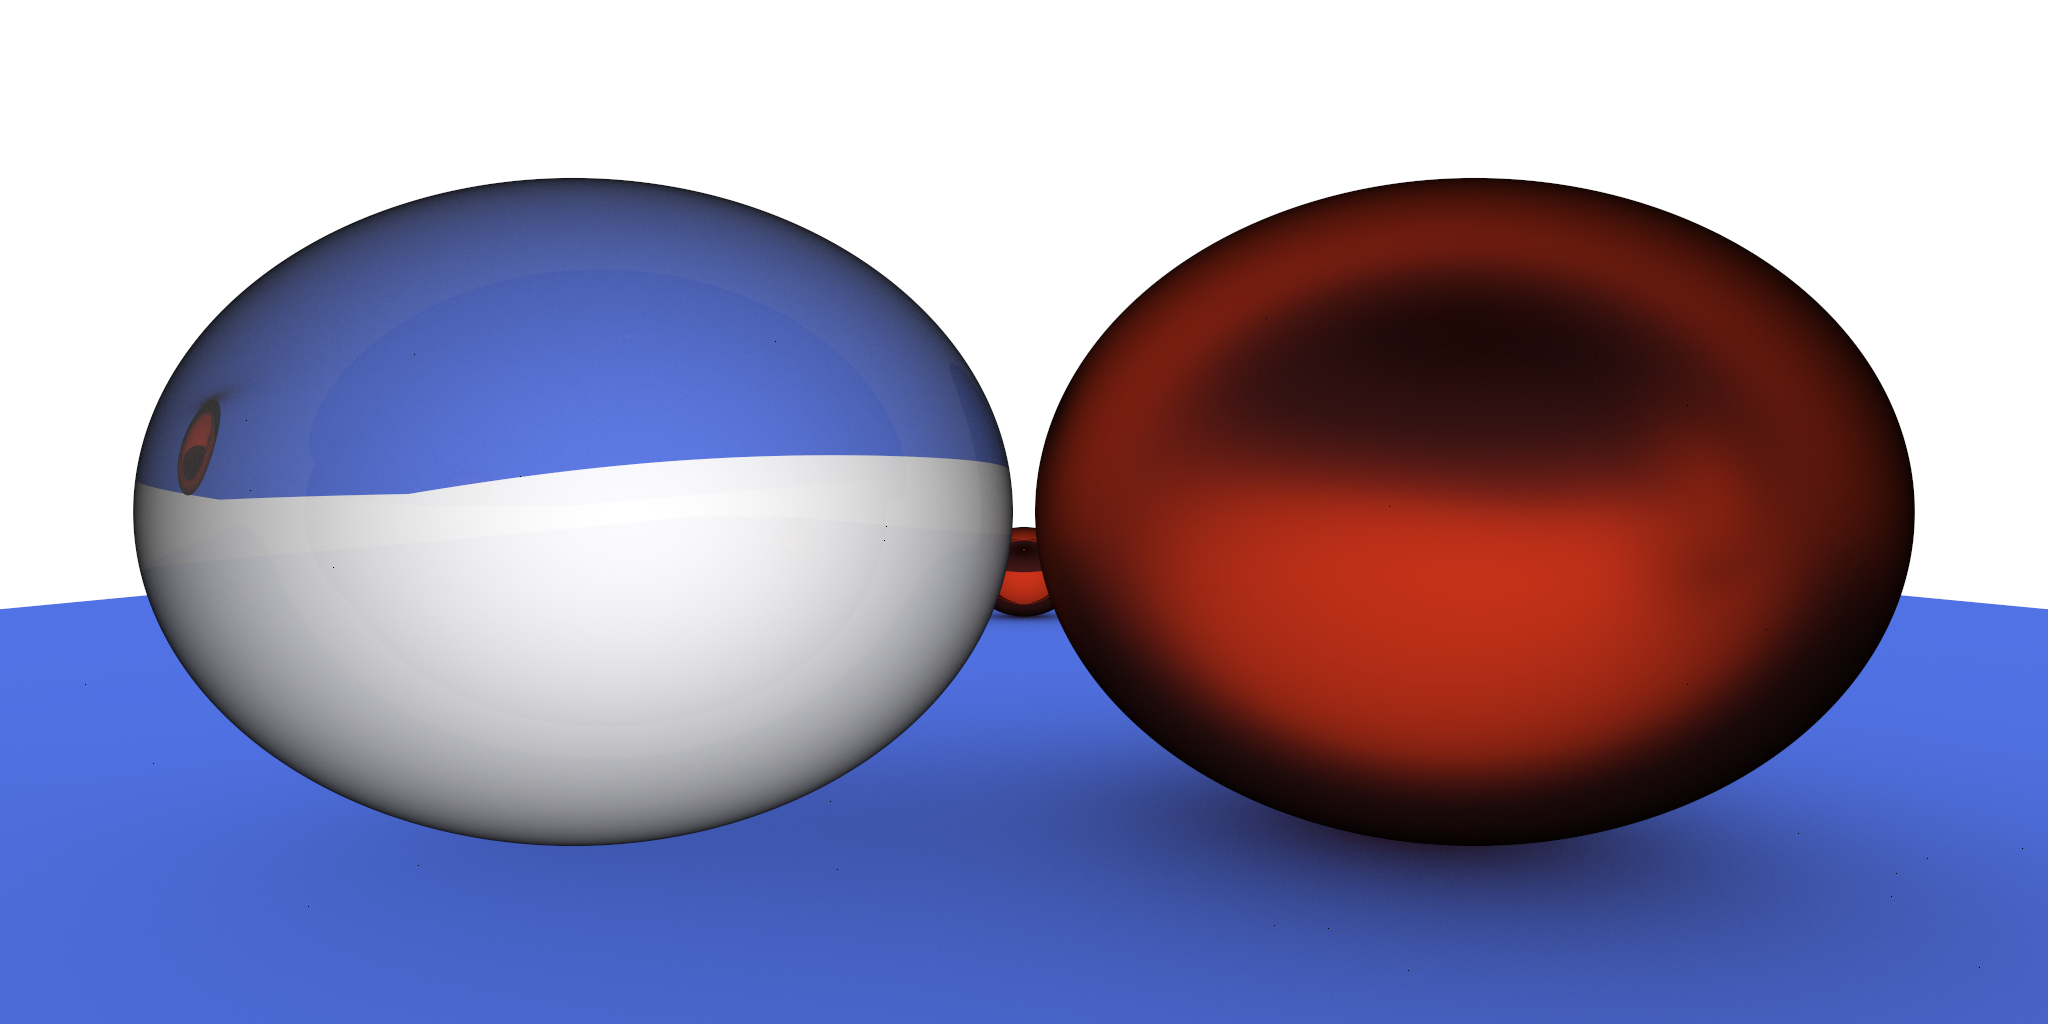
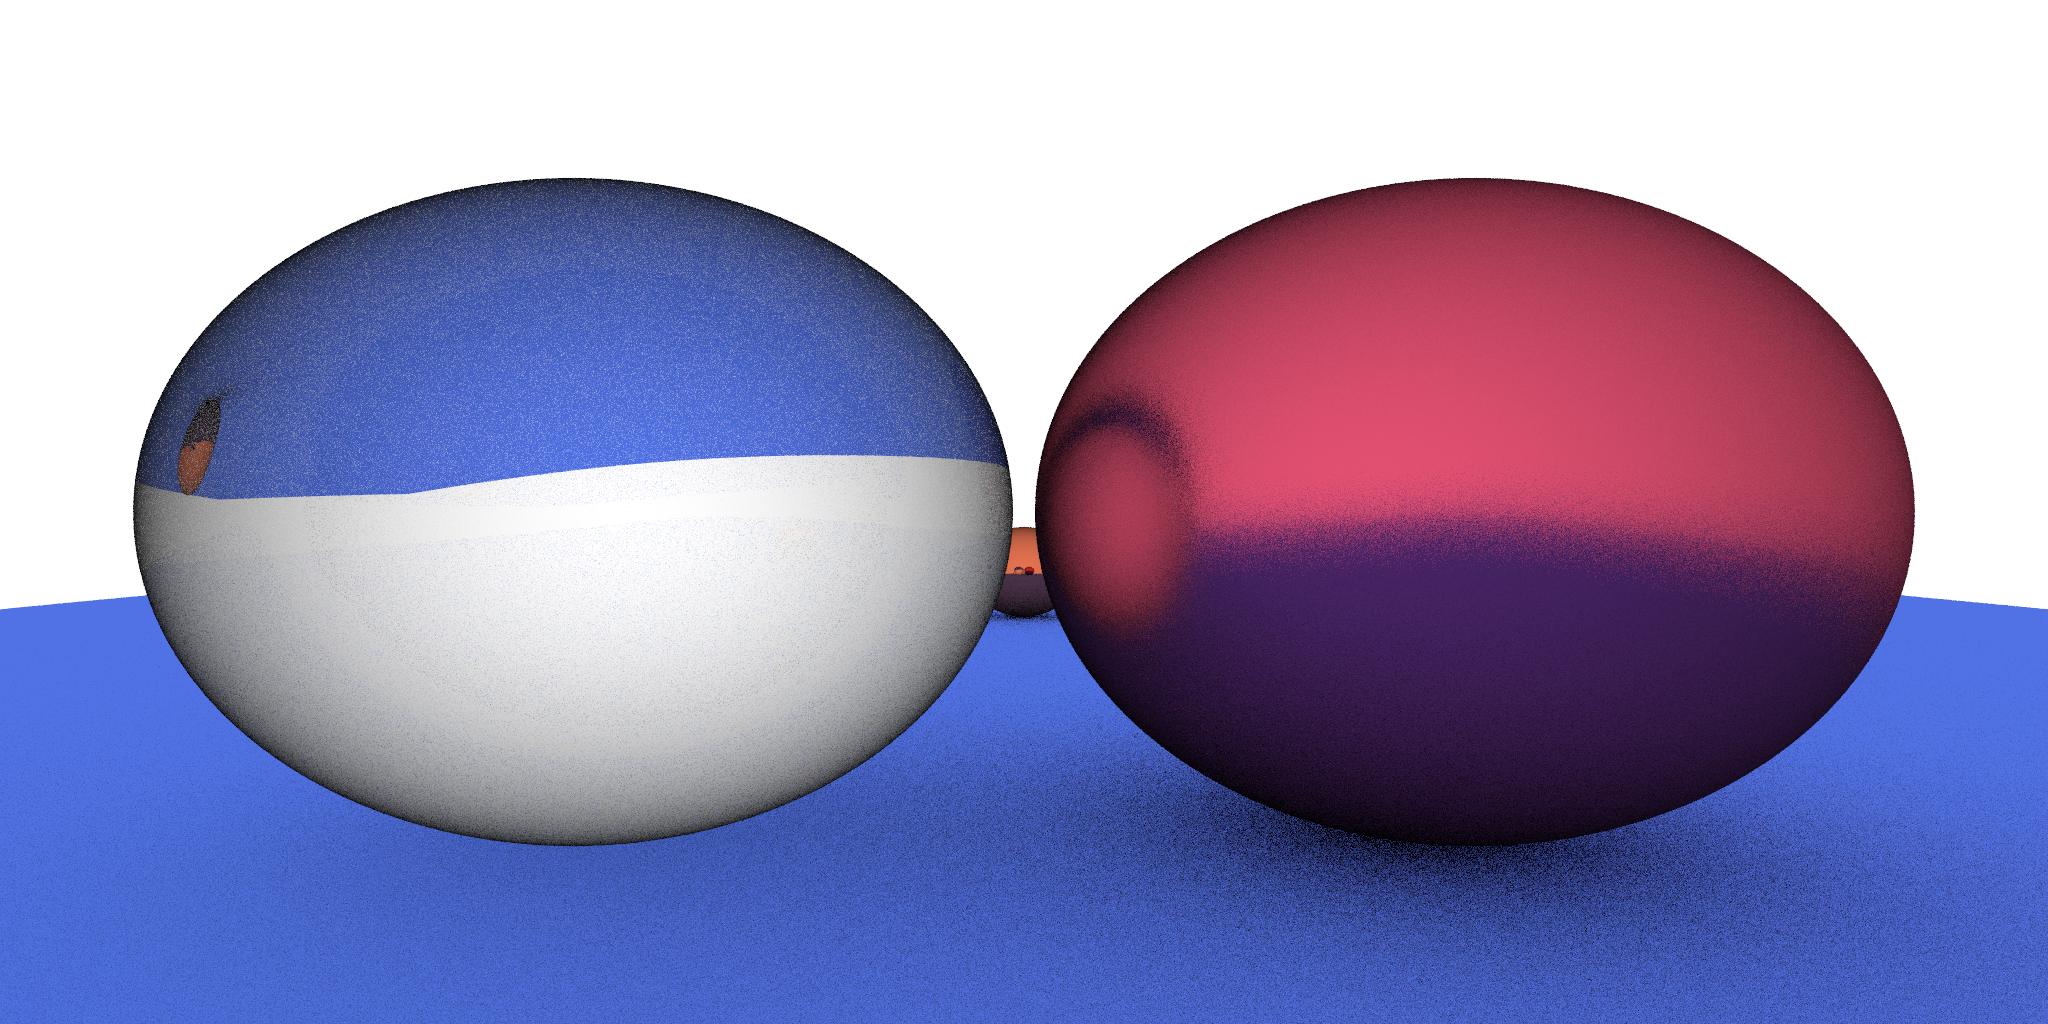
Fix the metal reflection problem

Changed region(s): [[0.0625, 0.1562, 1.0, 1.0]]

diff --git a/RayTracing/src/Application.cpp b/RayTracing/src/Application.cpp
@@ -8,7 +8,7 @@
 #include "Random.h"
 
 int main() {
-	int nrays = 1024;
+	int nrays = 8;
 	/*
 	Image3 img(512, 256);
 	World world(Camera(la::vec3(0), la::vec3(1, 0, 0), la::vec3(0, 1, 0)), la::vec3(1.0f));
@@ -71,14 +71,14 @@ int main() {
 	*/
 	Image3 img;
 	World world;
-	YAML::Loadscene("1000ballsconfig.yaml", world, img);
+	YAML::Loadscene("twoballsconfig.yaml", world, img);
 	
 	using namespace std::chrono;
 //	Renderer renderer;
 	auto start = high_resolution_clock::now();
 //	renderer.Render(world, img, nrays);
 	GPURenderer::Render(world, img, nrays);
-	img.Write("testpic2.png");
+	img.Write("testpic.png");
 	auto stop = high_resolution_clock::now();
 	std::cout << "Rendering finished. Time using: ";
 
